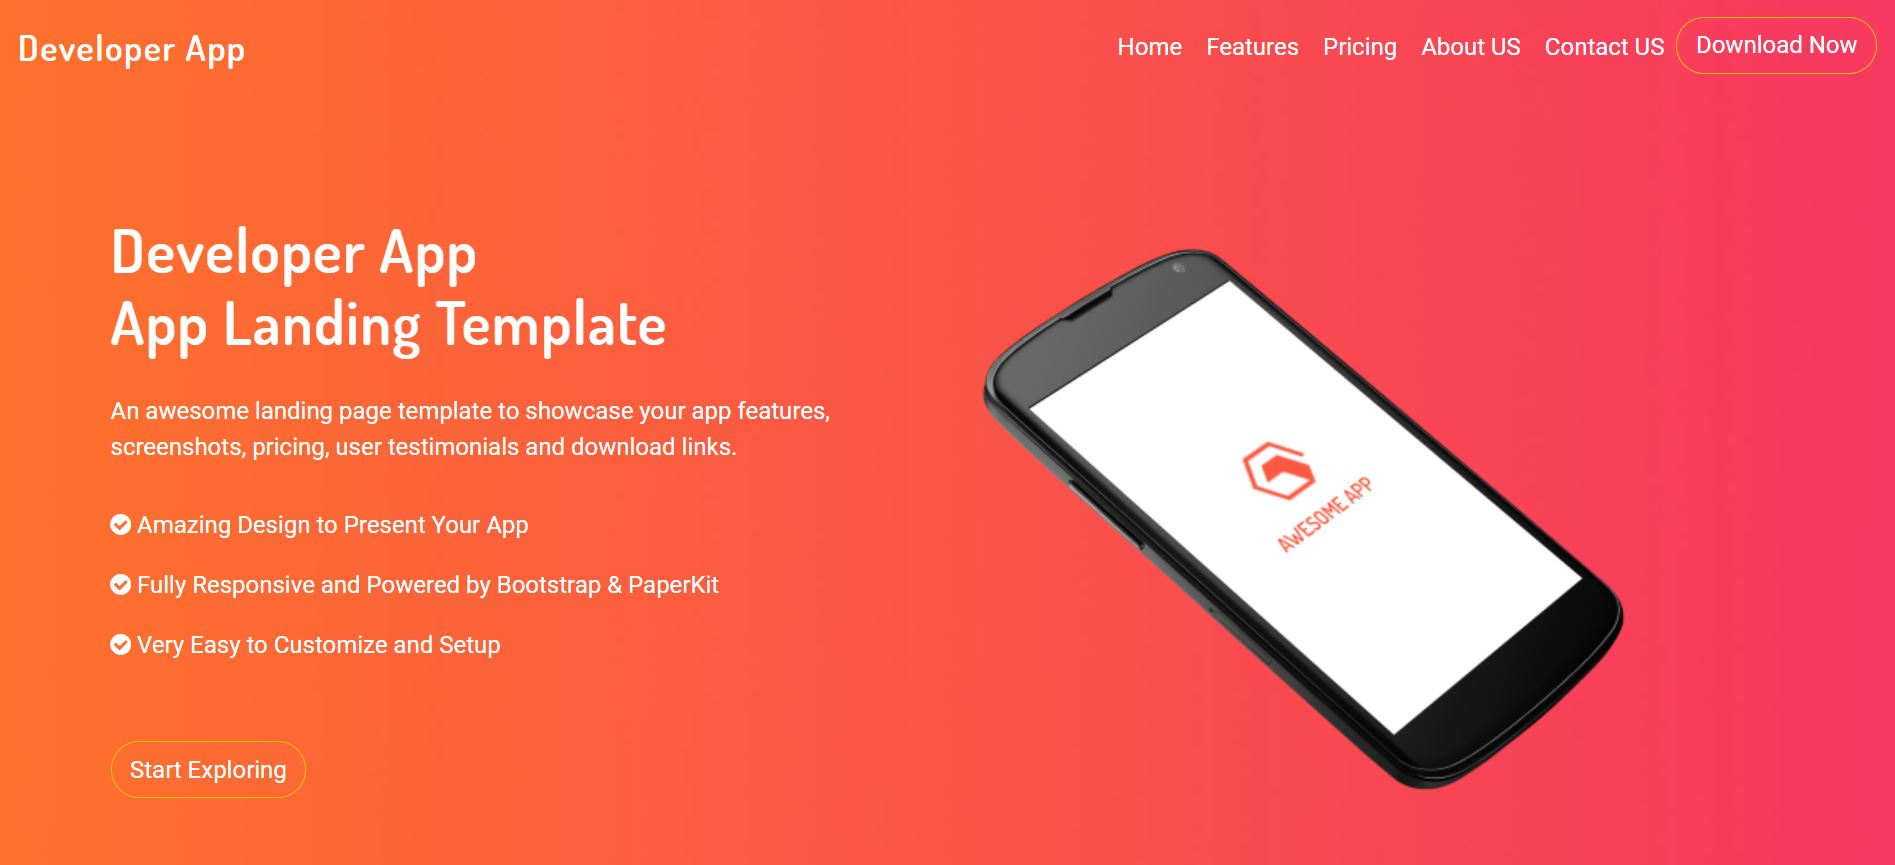
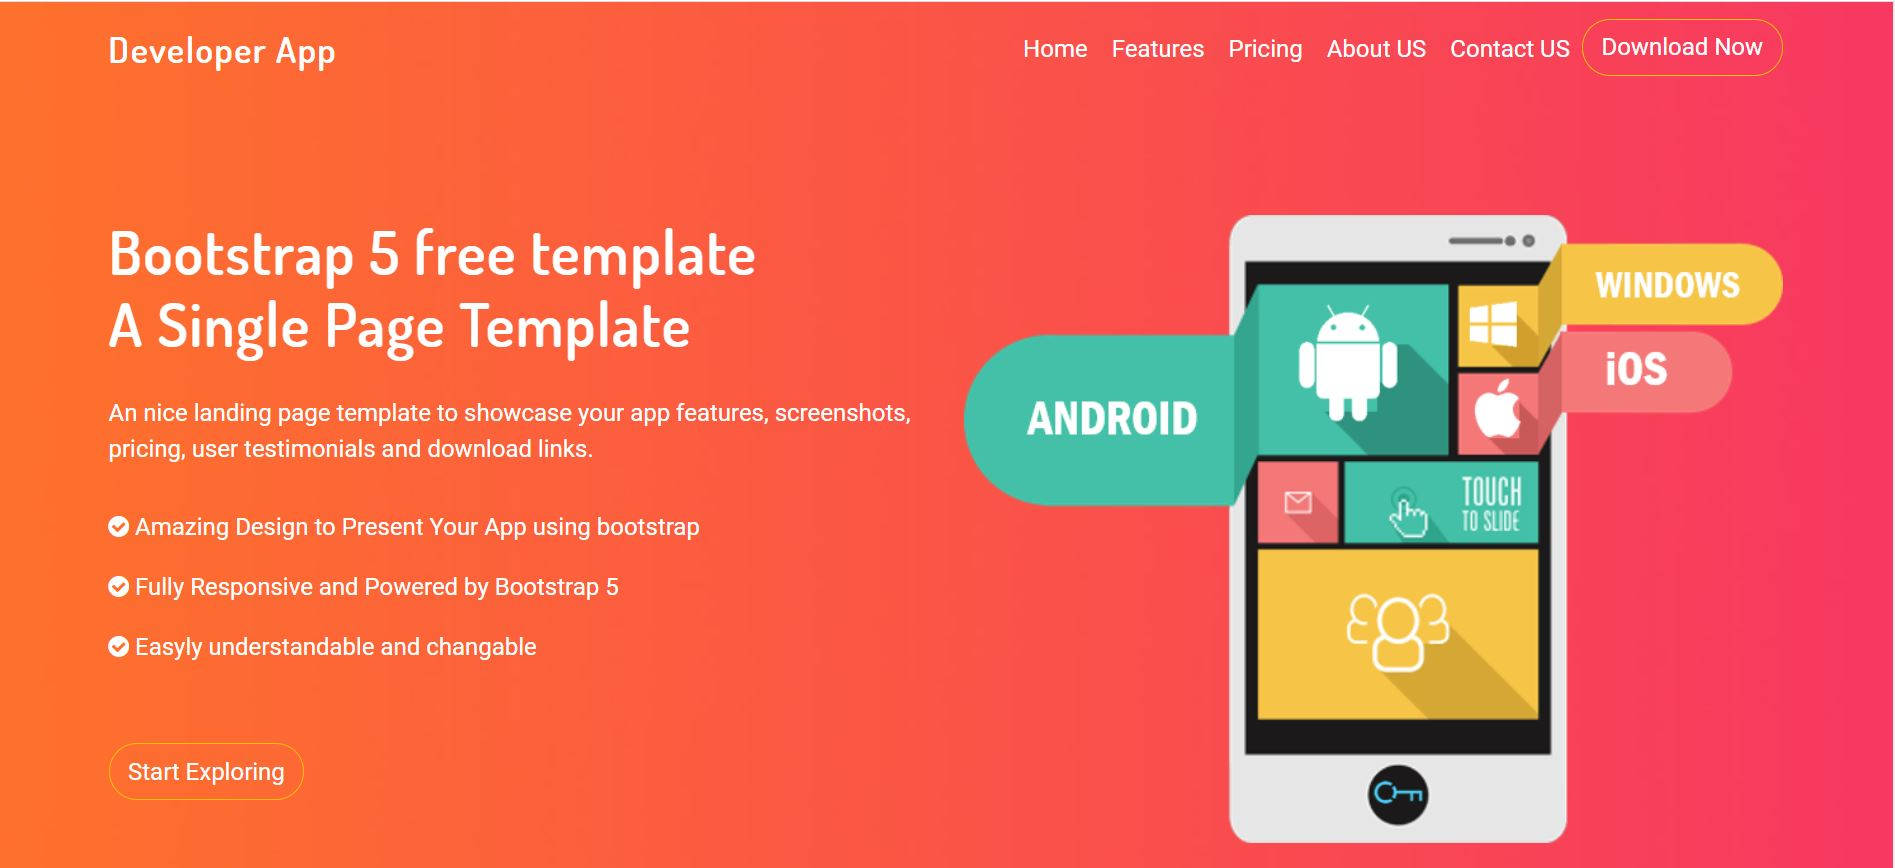
Changed landing page title

diff --git a/index.html b/index.html
@@ -49,7 +49,7 @@
             <div class="container aa-header-content text-left text-white">
                 <div class="row">
                     <div class="col-md-6 col-sm-12">
-                        <h1 class="text-white mb-4">Developer App <br />A Single Page Template</h1>
+                        <h1 class="text-white mb-4">Bootstrap 5 free template <br />A Single Page Template</h1>
                         <p>An nice landing page template to showcase your app features, screenshots, pricing, user testimonials and download links.</p>
                         <ul class="py-1 list-unstyled">
                             <li class="py-2"><i class="fa fa-check-circle pr-4" aria-hidden="true"></i> Amazing Design to Present Your App using bootstrap</li>
